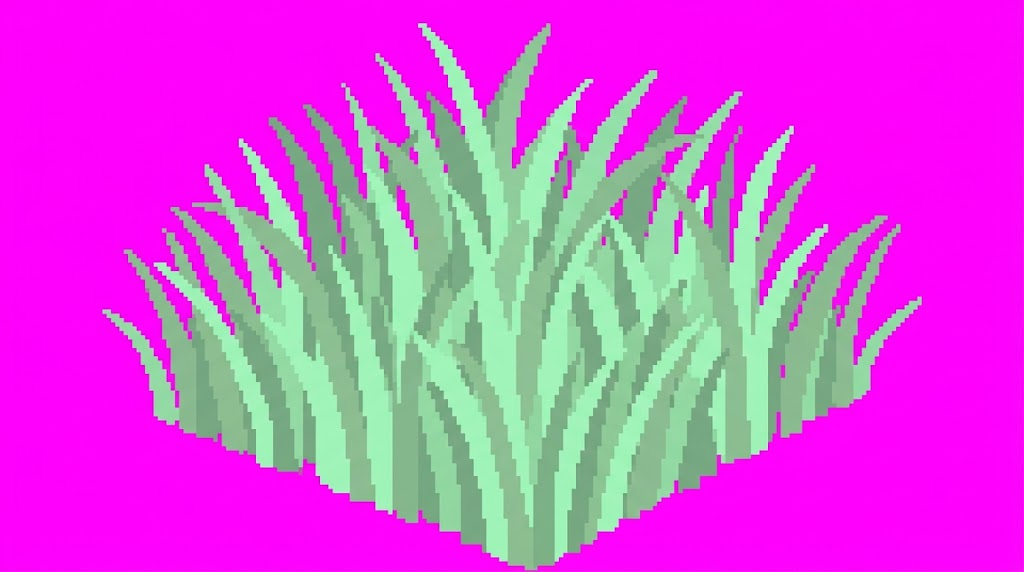
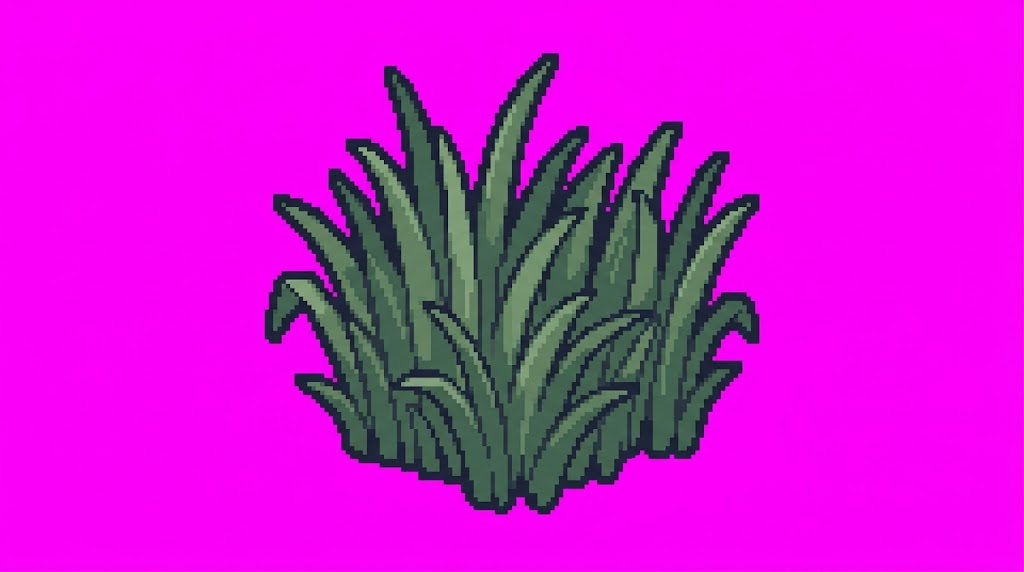
art: referência da personagem Helena e tons de pele dourada na paleta; design com escolha de personagem

diff --git a/docs/design.md b/docs/design.md
@@ -58,6 +58,16 @@ As **três áreas do Git** (working directory, staging, repositório) ficam semp
 5. **Grimório:** cada comando aprendido vira uma carta colecionável, que acaba formando a sua colinha de Git.
 6. **Modo livre:** um sandbox com todos os comandos, pra experimentar sem medo.
 
+## Escolha de personagem
+
+Antes do Ato 1, uma tela de escolha com 4 personagens (sprite de caminhada + retrato pro diálogo):
+
+1. **A Helena** (padrão): pele morena, cabelo cacheado escuro, tiara de orelhinhas de gato.
+2. **O aventureiro de boné** (já existe: `art/clean/jogadora-andando.png`).
+3. e 4. a definir.
+
+A escolha fica salva no progresso e muda o sprite, o retrato e o nome nas falas.
+
 ## Currículo: Git inteiro em 8 atos
 
 | Ato | Tema | Comandos | Momento da história |
